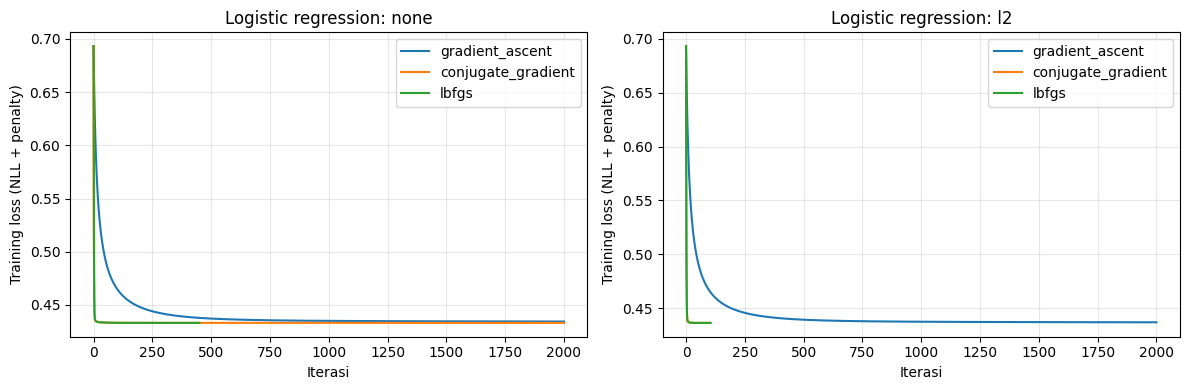
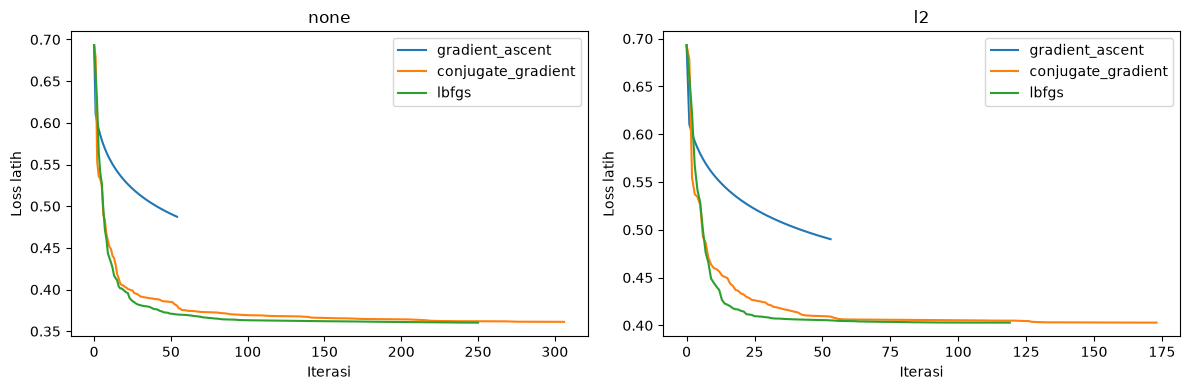
docs: update optimizer comparison with latest notebook run

diff --git a/docs/sections/04_eksperimen.tex b/docs/sections/04_eksperimen.tex
@@ -169,65 +169,71 @@ Gambar~\ref{fig:logreg}.
 \paragraph{Perbandingan \textit{solver} (bonus).}
 \textit{Gradient ascent}, \textit{conjugate gradient ascent}, dan L-BFGS
 dibandingkan pada pembagian latih dan validasi yang sama, tanpa penalti dan
-dengan L2 ($\lambda=0{,}001$). Semua \textit{solver} memakai seluruh data,
-mulai dari parameter nol, dengan batas 2.000 iterasi dan $\texttt{tol}=10^{-7}$.
-Waktu diukur satu kali per konfigurasi dengan satu utas BLAS. Kriteria berhenti
-\textit{gradient ascent} berbeda dengan dua \textit{solver} lain, sehingga
-tabel juga mencantumkan norma tak hingga gradien pada akhir pelatihan.
+dengan L2 ($\lambda=0{,}01$). Model \textit{gradient ascent} diambil dari
+perbandingan regularisasi sebelumnya. Ketiga \textit{solver} memakai
+seluruh data, mulai dari parameter nol, dengan batas 1.000 iterasi dan
+$\texttt{tol}=10^{-3}$. Arti \texttt{tol} berbeda antar-\textit{solver}.
+\textit{Gradient ascent} (laju belajar 0,05) berhenti setelah perubahan
+relatif \textit{loss} tidak lebih dari \texttt{tol} selama 10 iterasi
+berturut-turut. \textit{Conjugate gradient} dan L-BFGS berhenti setelah
+$\lVert\mathbf{g}\rVert_\infty\le\texttt{tol}$. \textit{Loss} latih pada
+tabel adalah \textit{negative log-likelihood} rata-rata ditambah penalti.
 
 \begin{table}[H]
 \centering
-\small
-\caption{Perbandingan \textit{solver} \textit{Logistic Regression} pada data validasi}
+\footnotesize
+\caption{Perbandingan \textit{solver} \textit{Logistic Regression} pada data validasi. Semua konfigurasi memenuhi kriteria berhentinya}
 \label{tab:logreg-solver}
 \setlength{\tabcolsep}{4pt}
-\begin{tabular}{@{}llcccrrc@{}}
+\begin{tabular}{@{}llrccccc@{}}
 \toprule
-Penalti & \textit{Solver} & F1 macro & \textit{Log-loss} & $\lVert\mathbf{g}\rVert_\infty$ & Iterasi & Waktu (s) & Konvergen \\
+Penalti & \textit{Solver} & Iterasi & \textit{Loss} latih & \textit{Log-loss} val. & F1 macro & \textit{Accuracy} & ROC-AUC \\
 \midrule
-Tanpa & \textit{Gradient ascent} & 0,7560 & 0,44138 & $8{,}2\times10^{-4}$ & 2.000 & 7,45 & Tidak \\
- & \textit{Conjugate gradient} & 0,7565 & 0,44079 & $1{,}3\times10^{-6}$ & 2.000 & 5,61 & Tidak \\
- & L-BFGS & 0,7565 & 0,44079 & $9{,}5\times10^{-8}$ & 450 & 0,93 & Ya \\
+Tanpa & \textit{Gradient ascent} & 54 & 0,4873 & 0,4467 & 0,7667 & 0,8166 & 0,8745 \\
+ & \textit{Conjugate gradient} & 306 & 0,3613 & 0,3373 & 0,8303 & 0,8564 & 0,9166 \\
+ & L-BFGS & 250 & 0,3603 & 0,3373 & 0,8279 & 0,8544 & 0,9165 \\
 \midrule
-L2 & \textit{Gradient ascent} & 0,7546 & 0,44145 & $7{,}8\times10^{-4}$ & 2.000 & 6,71 & Tidak \\
- & \textit{Conjugate gradient} & 0,7557 & 0,44081 & $6{,}7\times10^{-8}$ & 106 & 0,30 & Ya \\
- & L-BFGS & 0,7557 & 0,44081 & $8{,}8\times10^{-8}$ & 102 & 0,21 & Ya \\
+L2 & \textit{Gradient ascent} & 53 & 0,4902 & 0,4482 & 0,7671 & 0,8172 & 0,8745 \\
+ & \textit{Conjugate gradient} & 173 & 0,4029 & 0,3561 & 0,8156 & 0,8466 & 0,9117 \\
+ & L-BFGS & 119 & 0,4029 & 0,3561 & 0,8161 & 0,8469 & 0,9116 \\
 \bottomrule
 \end{tabular}
 \end{table}
 
-Pada L2, \textit{conjugate gradient} dan L-BFGS konvergen dalam sekitar 100
-iterasi dan selesai dalam 0,2 sampai 0,3 detik, sekitar 22 sampai 32 kali lebih
-cepat daripada \textit{gradient ascent} yang masih belum konvergen setelah
-2.000 iterasi. Kurva pada Gambar~\ref{fig:logreg-solver} menunjukkan hal yang
-sama: \textit{loss} kedua \textit{solver} turun hampir tegak pada beberapa
-iterasi awal, sedangkan \textit{gradient ascent} masih turun perlahan sampai
-akhir. Objektif akhir \textit{gradient ascent} juga sedikit lebih buruk
-(0,43699 dibanding 0,43644 pada data latih).
+Semua \textit{solver} memenuhi kriteria berhentinya masing-masing, tetapi
+hasilnya tidak setara. \textit{Gradient ascent} berhenti pada iterasi 53--54
+dengan \textit{loss} latih sekitar 0,49, sedangkan \textit{conjugate
+gradient} dan L-BFGS mencapai 0,361 tanpa penalti dan 0,403 dengan L2.
+Kurva pada Gambar~\ref{fig:logreg-solver} memperlihatkan penyebabnya.
+\textit{Loss} \textit{gradient ascent} masih turun saat pelatihan berhenti,
+tetapi penurunan per iterasinya sudah di bawah 0,1\% sehingga kriteria
+perubahan relatif terpenuhi. Kriteria ini hanya menandakan langkah yang
+mengecil, bukan titik optimum. Sebaliknya, \textit{loss} kedua \textit{solver}
+lain turun tajam pada sekitar 20 iterasi pertama, lalu melandai menuju nilai
+akhir yang sama. L-BFGS membutuhkan lebih sedikit iterasi daripada
+\textit{conjugate gradient}, yaitu 250 dibanding 306 tanpa penalti dan 119
+dibanding 173 dengan L2.
 
-Tanpa penalti, hanya L-BFGS yang konvergen. \textit{Conjugate gradient}
-sudah mencapai objektif yang sama dengan L-BFGS hingga lima desimal, tetapi
-norma gradiennya bertahan di sekitar $10^{-6}$ sampai batas iterasi. Dugaan
-kami, penyebabnya adalah kolom \textit{one-hot} yang lengkap. Jumlah kolom
-dari satu fitur kategorikal selalu bernilai satu, sama dengan kolom bias,
-sehingga ada arah parameter yang tidak mengubah prediksi dan Hessian-nya
-singular. Langkah Newton sepanjang arah seperti itu tidak terdefinisi dengan
-baik. Penalti L2 membuat Hessian definit pada arah tersebut, dan itu sejalan
-dengan hasil L2 yang konvergen cepat. Dugaan ini belum diuji secara terpisah.
-
-Perbedaan metrik validasi antar-\textit{solver} sangat kecil, paling besar
-0,0011 pada F1 macro. Artinya, ketiga \textit{solver} menuju model yang
-hampir sama dan keuntungan utamanya ada pada waktu pelatihan dan kepastian
-konvergensi, bukan pada akurasi. Hasil ini sejalan dengan temuan Minka bahwa
+Selisih \textit{loss} ini terbawa ke data validasi. Tanpa penalti,
+\textit{log-loss} validasi turun dari 0,447 menjadi 0,337 dan F1 macro naik
+dari 0,767 menjadi 0,828--0,830. Dengan L2, F1 macro naik dari 0,767 menjadi
+0,816. \textit{Conjugate gradient} dan L-BFGS menuju model yang hampir sama:
+selisih \textit{log-loss} validasinya di bawah $10^{-4}$ dan selisih F1 macro
+paling besar 0,0024. Pada kedua \textit{solver} ini, model tanpa penalti lebih
+baik daripada L2 pada data validasi. Artinya, $\lambda=0{,}01$ sudah cukup
+besar untuk membatasi model. Perbedaan antarvarian penalti pada perbandingan
+regularisasi dengan \textit{gradient ascent} lebih banyak dipengaruhi titik
+berhentinya daripada penaltinya. Hasil ini sejalan dengan temuan Minka bahwa
 \textit{conjugate gradient} dan \textit{quasi-Newton} termasuk metode tercepat
 untuk \textit{logistic regression} \cite{ref:minka-2003}. Kekurangannya, kedua
 \textit{solver} hanya mendukung tanpa penalti dan L2, jadi L1 dan
-\textit{Elastic Net} tetap memakai \textit{gradient ascent}.
+\textit{Elastic Net} tetap memakai \textit{gradient ascent}. Angka di atas
+berasal dari satu kali \textit{run} pada satu pembagian validasi.
 
 \begin{figure}[H]
 \centering
 \includegraphics[width=\textwidth]{figures/logreg_optimizer_loss.png}
-\caption{Kurva \textit{loss} pelatihan tiga \textit{solver}, tanpa penalti (kiri) dan dengan L2 (kanan). Kurva \textit{conjugate gradient} pada panel kanan tertutup kurva L-BFGS}
+\caption{Kurva \textit{loss} pelatihan tiga \textit{solver}, tanpa penalti (kiri) dan dengan L2 (kanan)}
 \label{fig:logreg-solver}
 \end{figure}
 

diff --git a/docs/sections/05_kesimpulan.tex b/docs/sections/05_kesimpulan.tex
@@ -34,9 +34,10 @@ belum menyamai KNN dan C4.5. Pada bonus, penggeseran ambang menjadi 0,667 untuk
 \textit{cost-sensitive classification} menurunkan total biaya pada semua model yang dievaluasi,
 dengan biaya terendah dicapai KNN (5.093). Pada bonus optimasi
 \textit{Logistic Regression}, \textit{conjugate gradient ascent} dan L-BFGS
-dengan L2 konvergen dalam sekitar 100 iterasi, sedangkan \textit{gradient
-ascent} belum konvergen setelah 2.000 iterasi. Metrik validasi ketiganya hampir
-sama, jadi keuntungannya ada pada waktu pelatihan. Visualisasi pohon, video lintasan
+mencapai \textit{loss} latih yang jauh lebih rendah daripada \textit{gradient
+ascent}, yang berhenti terlalu dini karena kriteria perubahan relatif
+\textit{loss}. Tanpa penalti, F1 macro validasi naik dari 0,767 menjadi
+sekitar 0,83, dan L-BFGS membutuhkan iterasi paling sedikit. Visualisasi pohon, video lintasan
 parameter \textit{Logistic Regression}, dan graf \textit{Naive Bayes} juga
 berhasil dibuat untuk membantu menjelaskan perilaku model.
 
@@ -65,6 +66,6 @@ sudah dibuat hanya mendukung tanpa penalti dan L2, sehingga L1 dan
 \textit{Elastic Net} masih memakai \textit{gradient ascent}. Metode untuk
 objektif yang tidak mulus, misalnya \textit{proximal gradient} atau
 \textit{coordinate descent}, dapat dicoba untuk kedua penalti tersebut.
-\textit{Conjugate gradient} tanpa penalti juga belum konvergen, kemungkinan
-karena kolom \textit{one-hot} yang lengkap membuat Hessian singular. Hal ini
-dapat diuji dengan membuang satu kolom per fitur kategorikal.
+Kriteria berhenti \textit{gradient ascent} juga perlu diganti dengan norma
+gradien, karena kriteria perubahan relatif \textit{loss} menghentikan
+pelatihan sebelum mendekati optimum.

diff --git a/docs/sections/03_pembahasan.tex b/docs/sections/03_pembahasan.tex
@@ -1292,8 +1292,9 @@ pertama lalu mendatar karena gradiennya mengecil di dekat minimum.
 \label{sec:bonus-logreg-opt}
 
 \textit{Gradient ascent} pada implementasi dasar memakai laju belajar tetap
-sehingga langkahnya mengecil saat gradien mengecil. Pada data latih, varian
-tanpa penalti belum memenuhi kriteria berhenti setelah 2.000 \textit{epoch}.
+sehingga langkahnya mengecil saat gradien mengecil. Kriteria berhentinya,
+yaitu perubahan relatif \textit{loss}, dapat terpenuhi sebelum parameter
+mendekati optimum (Tabel~\ref{tab:logreg-solver}).
 Bonus ini menambahkan dua \textit{solver} yang memakai informasi kelengkungan,
 yaitu \textit{conjugate gradient ascent} (\texttt{conjugate\_gradient}) dan
 L-BFGS (\texttt{lbfgs}). Teorinya dibahas pada
